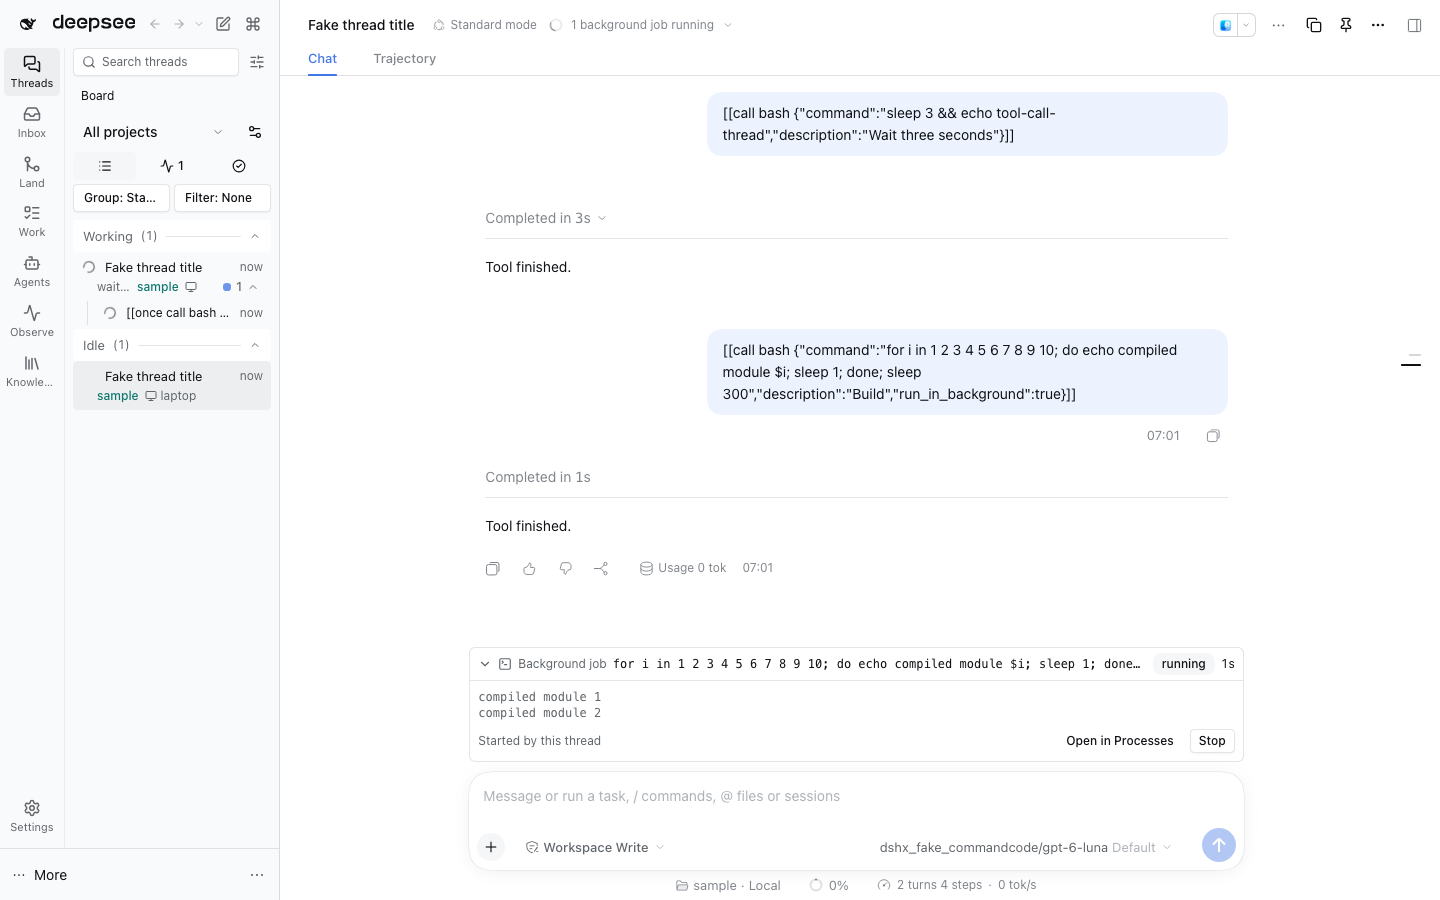
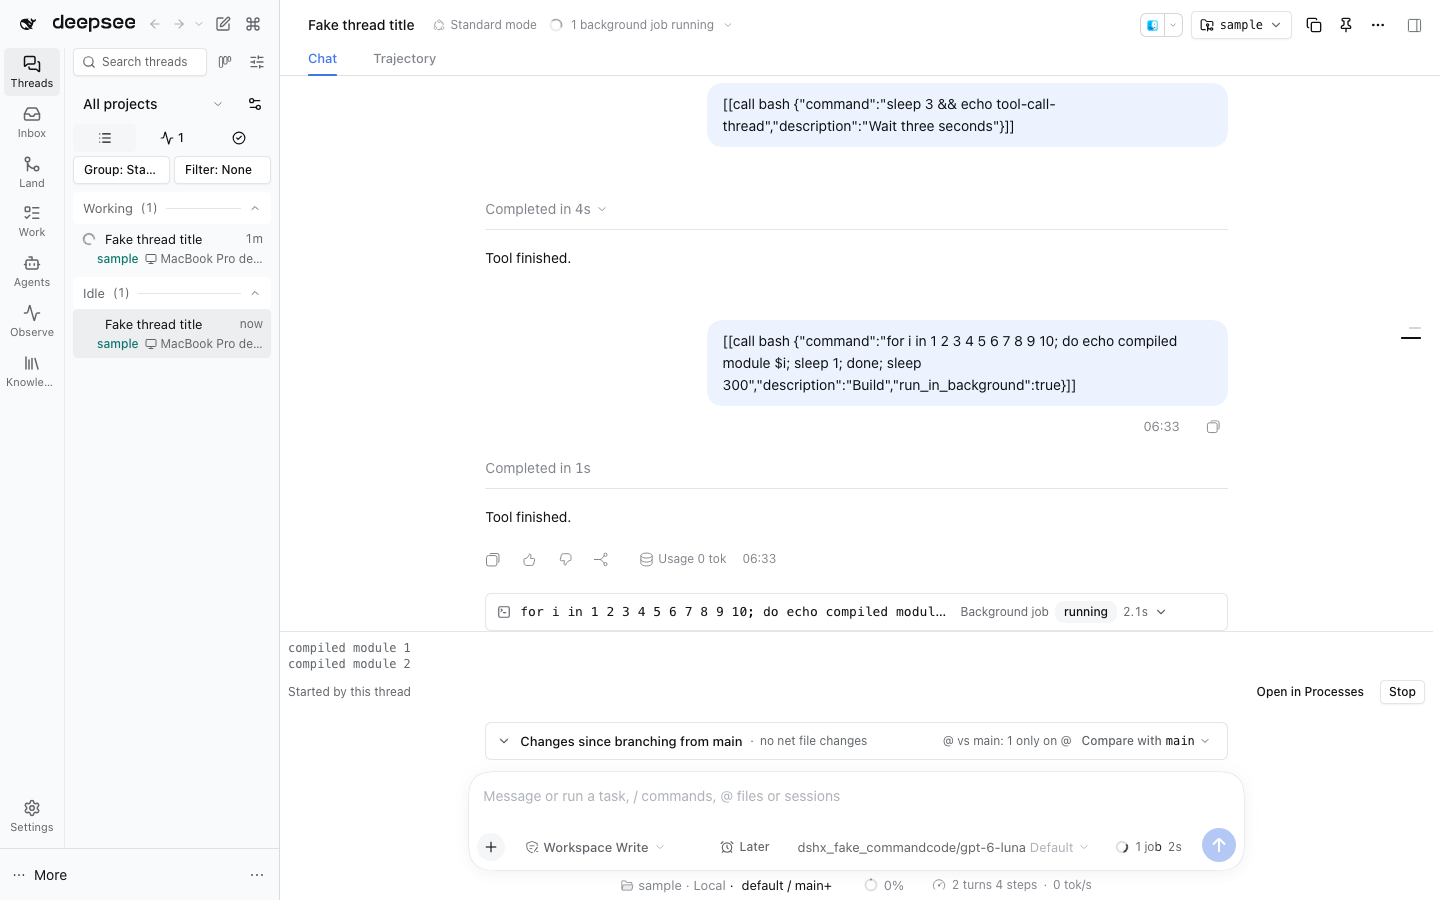
refactor(background-jobs): draw the live job row with ComposerRow
The live job preview was a 32px bar with its own padding and icon
order, unlike the goal and changes rows around it. ComposerRow gives
it the shared 36px line while keeping the disclosure, status badge,
elapsed time and expanded output.

diff --git a/plugins/@dshfiles/background-jobs/src/job-preview.tsx b/plugins/@dshfiles/background-jobs/src/job-preview.tsx
@@ -4,6 +4,7 @@ import { useApi } from '@dshfiles/dshx/client'
 import { Alert, AlertDescription } from '@dshfiles/plugin-ui/components/ui/alert'
 import { Badge } from '@dshfiles/plugin-ui/components/ui/badge'
 import { Button } from '@dshfiles/plugin-ui/components/ui/button'
+import { ComposerRow } from '@dshfiles/plugin-ui/components/composer-row'
 import { ChevronRightIcon, SquareTerminalIcon } from '@dshfiles/plugin-ui/icons'
 import { formatDurationMs } from '@dshfiles/plugin-ui/lib/format-duration'
 import { cn } from '@dshfiles/plugin-ui/lib/utils'
@@ -148,33 +149,35 @@ const JobPreviewCard = (
     <section
       aria-label={`${t('previewKind')}: ${view.label}`}
       className={cn(
-        'dshx-root dshx:@container dshx:my-1 dshx:overflow-hidden dshx:rounded-lg dshx:border dshx:border-border dshx:text-xs',
-        props.seat === 'dock' ? 'dshx:bg-background' : 'dshx:ml-1',
+        'dshx-root dshx:@container dshx:my-1 dshx:text-xs',
+        props.seat === 'tool-card' && 'dshx:ml-1 dshx:overflow-hidden dshx:rounded-lg dshx:border dshx:border-border dshx:bg-background',
       )}
       data-dshfiles-live-preview="job"
       data-dshfiles-live-preview-seat={props.seat}
       data-job-id={view.id}
       data-state={view.status}
     >
-      <button
-        type="button"
-        aria-expanded={open}
-        aria-label={t('previewToggle', { label: view.label })}
-        className="dshx:flex dshx:h-8 dshx:w-full dshx:min-w-0 dshx:items-center dshx:gap-1.5 dshx:px-2 dshx:text-left dshx:hover:bg-accent"
-        onClick={disclosure.toggle}
-      >
-        <ChevronRightIcon aria-hidden className={cn('dshx:size-3.5 dshx:shrink-0 dshx:text-muted-foreground', open && 'dshx:rotate-90')} />
-        <SquareTerminalIcon aria-hidden className="dshx:size-3.5 dshx:shrink-0 dshx:text-muted-foreground" />
-        <span className="dshx:shrink-0 dshx:text-muted-foreground dshx:@max-pane-narrow:sr-only">{t('previewKind')}</span>
-        <span className="dshx:min-w-0 dshx:flex-1 dshx:truncate dshx:font-mono!">{view.label}</span>
-        {view.progress === undefined ? null : (
-          <span className="dshx:min-w-0 dshx:truncate dshx:text-muted-foreground dshx:@max-pane-narrow:hidden">{view.progress}</span>
-        )}
-        <span role="status" className="dshx:shrink-0">
-          <Badge variant={statusVariant(view.status)}>{t(STATUS_KEY[view.status])}</Badge>
-        </span>
-        <Elapsed startedAt={view.startedAt} finishedAt={view.finishedAt} live={live} />
-      </button>
+      <ComposerRow
+        icon={<SquareTerminalIcon />}
+        label={<span className="dshx:font-mono!">{view.label}</span>}
+        meta={
+          <>
+            <span className="dshx:shrink-0 dshx:@max-pane-narrow:sr-only">{t('previewKind')}</span>
+            {view.progress === undefined ? null : (
+              <span className="dshx:min-w-0 dshx:truncate dshx:@max-pane-narrow:hidden">{view.progress}</span>
+            )}
+            <span role="status" className="dshx:shrink-0">
+              <Badge variant={statusVariant(view.status)}>{t(STATUS_KEY[view.status])}</Badge>
+            </span>
+            <Elapsed startedAt={view.startedAt} finishedAt={view.finishedAt} live={live} />
+            <ChevronRightIcon aria-hidden className={cn('dshx:size-3.5 dshx:shrink-0 dshx:transition-transform', open && 'dshx:rotate-90')} />
+          </>
+        }
+        expanded={open}
+        onSelect={disclosure.toggle}
+        selectLabel={t('previewToggle', { label: view.label })}
+        variant={props.seat === 'dock' ? 'card' : 'plain'}
+      />
       {open ? (
         <div className="dshx:flex dshx:flex-col dshx:gap-2 dshx:border-t dshx:border-border dshx:p-2">
           {view.detail === undefined ? null : <p className="dshx:text-muted-foreground">{view.detail}</p>}
@@ -241,7 +244,7 @@ export const JobPreviewDock = (props: JobPreviewBindings & { readonly sessionId:
     <div
       aria-label={props.t('previewDock')}
       role="region"
-      className="dshx-root dshx:mx-auto dshx:flex dshx:max-h-72 dshx:w-[calc(100%-var(--dsh-composer-side-clearance,0px)*2)] dshx:max-w-(--dsh-composer-card-max-width) dshx:flex-col dshx:overflow-y-auto"
+      className="dshx-root dshx:mx-auto dshx:flex dshx:max-h-72 dshx:w-full dshx:flex-none dshx:flex-col dshx:overflow-y-auto"
       data-dshfiles-live-preview-dock="jobs"
     >
       {ids.split(ID_SEPARATOR).map(jobId => (
